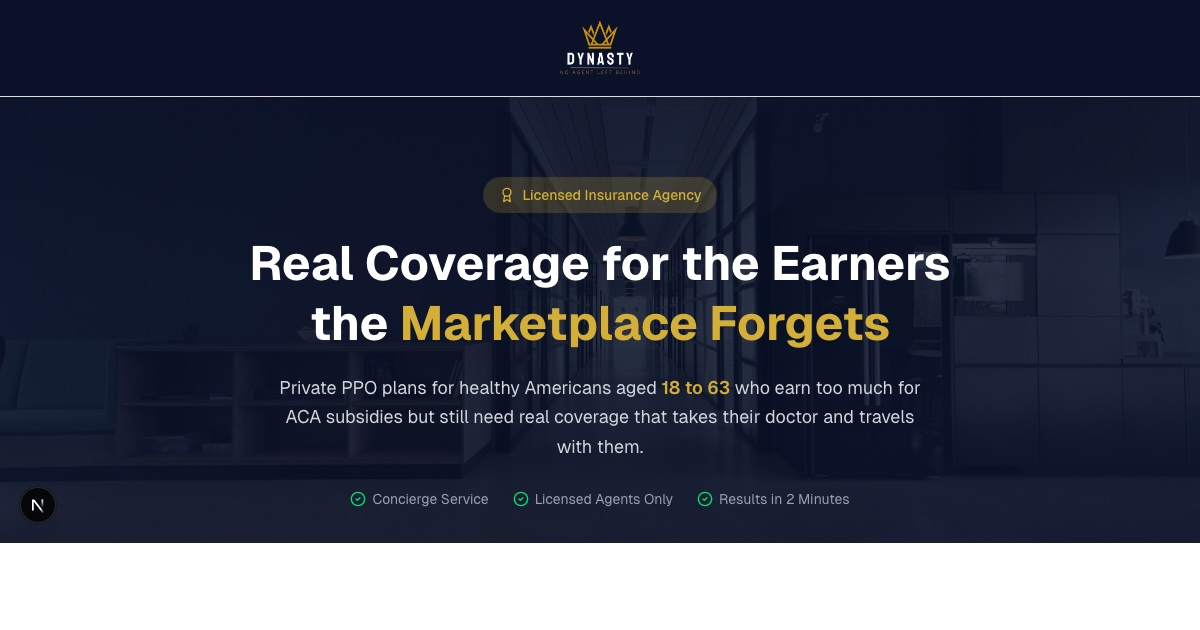
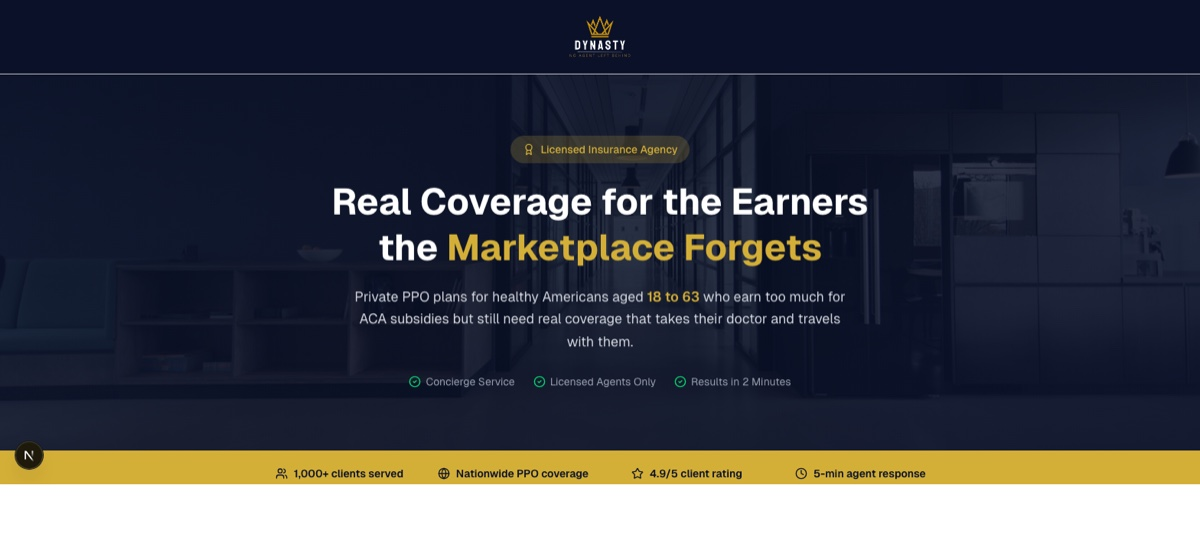
Replace home OG with full hero + stats composition
The first home OG image only captured the hero. New version matches the
view the user wants for social shares: navy header with logo, hero with
'Marketplace Forgets' headline, trust strip, and the gold stats bar with
all four credibility marks. Captured at 1568x720 viewport, downsized to
1200x551 (preserves aspect, well within OG ratio tolerances), 97KB JPEG.

Also caught one stale '10-min agent response' on the homepage stats bar
that the earlier 10-to-5-minute sweep missed because the regex required
the full word 'minute'. Now reads '5-min agent response'.

diff --git a/app/page.tsx b/app/page.tsx
@@ -198,7 +198,7 @@ export default function PlansPage() {
               { icon: <Users className="w-4 h-4 flex-shrink-0" />, text: "1,000+ clients served" },
               { icon: <Globe className="w-4 h-4 flex-shrink-0" />, text: "Nationwide PPO coverage" },
               { icon: <Star className="w-4 h-4 flex-shrink-0" />, text: "4.9/5 client rating" },
-              { icon: <Clock className="w-4 h-4 flex-shrink-0" />, text: "10-min agent response" },
+              { icon: <Clock className="w-4 h-4 flex-shrink-0" />, text: "5-min agent response" },
             ].map((item, i) => (
               <div key={i} className="flex items-center justify-center gap-2 text-[#0A1128] font-semibold text-sm text-center">
                 {item.icon}

diff --git a/app/layout.tsx b/app/layout.tsx
@@ -45,7 +45,7 @@ export const metadata: Metadata = {
       {
         url: "/og/home.jpg",
         width: 1200,
-        height: 630,
+        height: 551,
         alt: "Dynasty Insurance Group: Real Coverage for the Earners the Marketplace Forgets",
         type: "image/jpeg",
       },
